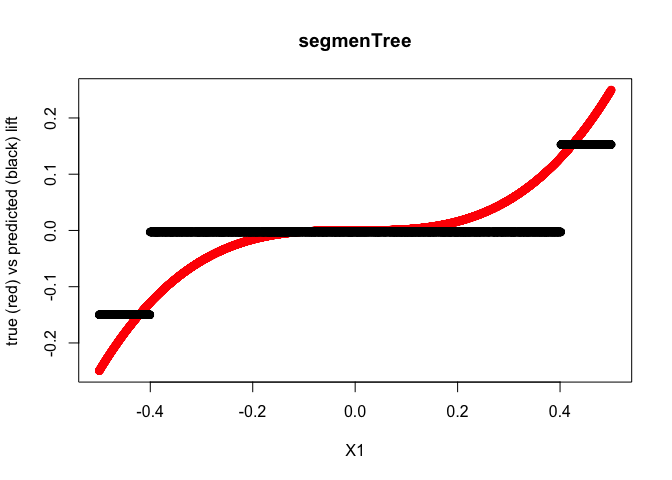
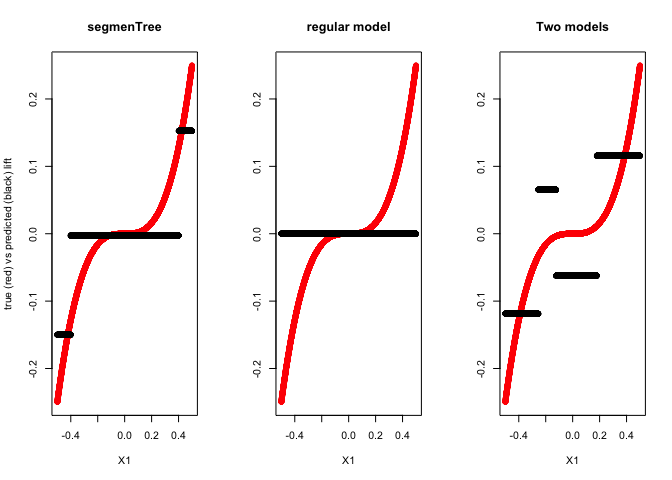
lots of changes

diff --git a/README.md b/README.md
@@ -1,7 +1,7 @@
 segmenTree package
 ================
 Iyar Lin
-09 May, 2020
+16 July, 2020
 
 The `segmenTree` package implements a decision tree based algorithm for
 exploration of heterogeneous treatment effects in Randomized Controlled
@@ -47,9 +47,6 @@ segment_tree <- rpart(y ~ ., data = dat,
                       x = T)
 ```
 
-    ## Warning in rpart(y ~ ., data = dat, method = lift_method, control =
-    ## rpart.control(cp = 0, : NAs introduced by coercion
-
 One way of exploring the resulting tree is by printing the rpart object:
 
 ``` r
@@ -68,10 +65,10 @@ segment_tree
     ##        12) X1< 0.2939269 6939 2.318396e+15 -0.019487100  
     ##          24) X1< -0.2554171 1467 4.631487e+12 -0.078092060 *
     ##          25) X1>=-0.2554171 5472 8.965703e+14 -0.004552848  
-    ##            50) X1< 0.1795555 4328 3.508722e+14 -0.016096610  
-    ##             100) X3=B,C 2930 7.370051e+13  0.007902488 *
-    ##             101) X3=A 1398 3.819695e+12 -0.064505450 *
-    ##            51) X1>=0.1795555 1144 1.712790e+12  0.043287360 *
+    ##            50) X1< 0.1890516 4430 3.851367e+14 -0.014668450  
+    ##             100) X3=B,C 2992 8.013945e+13  0.008535898 *
+    ##             101) X3=A 1438 4.275979e+12 -0.060894750 *
+    ##            51) X1>=0.1890516 1042 1.178883e+12  0.043870860 *
     ##        13) X1>=0.2939269 1044 1.187960e+12  0.096902740 *
     ##       7) X1>=0.4016537 1014 1.057187e+12  0.152712600 *
 
@@ -86,9 +83,9 @@ print(segments)
     ##                            segment    n         lift   lift_lower  lift_upper
     ## 7  X1>=0.4017,X1<0.499855161411688 1014  0.152712621  0.109679301  0.19574594
     ## 6             X1>=0.2939,X1<0.4017 1044  0.096902744  0.052632159  0.14117333
-    ## 5             X1>=0.1796,X1<0.2939 1144  0.043287364 -0.002503221  0.08907795
-    ## 3  X1>=-0.2554,X1<0.1796, X3={B,C} 2930  0.007902488 -0.020848054  0.03665303
-    ## 4    X1>=-0.2554,X1<0.1796, X3={A} 1398 -0.064505454 -0.105797811 -0.02321310
+    ## 5             X1>=0.1891,X1<0.2939 1042  0.043870858 -0.004383936  0.09212565
+    ## 3  X1>=-0.2554,X1<0.1891, X3={B,C} 2992  0.008535898 -0.019895457  0.03696725
+    ## 4    X1>=-0.2554,X1<0.1891, X3={A} 1438 -0.060894751 -0.101565692 -0.02022381
     ## 2           X1>=-0.4005,X1<-0.2554 1467 -0.078092056 -0.118100169 -0.03808394
     ## 1 X1>=-0.49972922494635,X1<-0.4005 1003 -0.150025305 -0.196506492 -0.10354412
 
@@ -113,17 +110,17 @@ points(dat$X1, tau)
 We can see that the algorithm predicts well most of the curve, but did
 some over-fitting in the middle section.
 
-The `segmenTree::tunecp` function uses cross validation to find the
+The `segmenTree::prune_tree` function uses cross validation to find the
 optimal `cp` hyper parameter value.
 
 Below we can see the effective lift and error as a function of the `cp`
 parameter:
 
 ``` r
-optimal_cp_cv <- tune_cp(segment_tree)
+optimal_cp_cv <- prune_tree(segment_tree)
 ```
 
-![](README_files/figure-gfm/prune%20tree%20using%20tunecp-1.png)<!-- -->
+![](README_files/figure-gfm/prune%20tree%20using%20prune_tree-1.png)<!-- -->
 
 ``` r
 optimal_cp_cv <- optimal_cp_cv$optimal_cp
@@ -132,17 +129,47 @@ pruned_segment_tree <- prune(segment_tree, cp = optimal_cp_cv)
 
 The optimal `cp` maximizes the ratio between effective lift and error.
 
-Let’s explore the resulting pruned tree segments:
+Let’s check the new pruned tree predictions:
 
 ``` r
-segments <- extract_segments(pruned_segment_tree, alpha = 0.15)
-print(segments)
+tau <- predict(pruned_segment_tree, dat)
+
+y_lim <- c(min(tau, cate), max(tau, cate))
+plot(c(min(dat$X1), max(dat$X1)), y_lim, type = "n", main = "segmenTree",
+     xlab = "X1", ylab = "true (red) vs predicted (black) lift")
+points(dat$X1, cate, col = "red")
+points(dat$X1, tau)
 ```
 
-    ##                            segment    n         lift  lift_lower  lift_upper
-    ## 3  X1>=0.4017,X1<0.499855161411688 1014  0.152712621  0.10967930  0.19574594
-    ## 2            X1>=-0.4005,X1<0.4017 7983 -0.002719803 -0.02014333  0.01470372
-    ## 1 X1>=-0.49972922494635,X1<-0.4005 1003 -0.150025305 -0.19650649 -0.10354412
+![](README_files/figure-gfm/predict%20treatment%20effect%20pruned%20tree-1.png)<!-- -->
+
+Looks like the tree got pruned a little too much.
+
+One other way we can reduce over-fitting is by adjusting how the leaf
+size is weighted.
+
+``` r
+lift_method <- import_lift_method(f_n = function(x) x)
+
+weighted_segment_tree <- rpart(y ~ ., data = dat,
+                      method = lift_method, 
+                      control = rpart.control(cp = 0, minbucket = 1000),
+                      x = T)
+```
+
+Let’s see the resulting predictions:
+
+``` r
+tau <- predict(weighted_segment_tree, dat)
+
+y_lim <- c(min(tau, cate), max(tau, cate))
+plot(c(min(dat$X1), max(dat$X1)), y_lim, type = "n", main = "segmenTree",
+     xlab = "X1", ylab = "true (red) vs predicted (black) lift")
+points(dat$X1, cate, col = "red")
+points(dat$X1, tau)
+```
+
+![](README_files/figure-gfm/predict%20treatment%20effect%20weighted%20tree-1.png)<!-- -->
 
 To demonstrate why we even need a specialized algorithm we’ll compare
 the segmenTree model with 2 other approaches that use plain ML models:
@@ -151,11 +178,12 @@ the segmenTree model with 2 other approaches that use plain ML models:
     tau(x)=f(x,T=1)-f(x,T=0)  
 2.  Train a model on the treatment units f\_{T=1} and a separate model
     f\_{T=0} on the control units and predict: tau(x) = f\_{T=1}(x) -
-    f\_{T=0}(x)
+    f\_{T=0}(x). This is also called “Two model approach”.
 
 We’ll use a decision tree in both of the above.
 
 ``` r
+par(mfrow = c(1, 3))
 # segmenTree pruned model
 tau <- predict(pruned_segment_tree, dat)
 p_treat <- p_x(rep(1, n), X1, X2, X3)
@@ -167,11 +195,7 @@ plot(c(min(dat$X1), max(dat$X1)), y_lim, type = "n", main = "segmenTree",
      xlab = "X1", ylab = "true (red) vs predicted (black) lift")
 points(dat$X1, cate, col = "red")
 points(dat$X1, tau)
-```
 
-![](README_files/figure-gfm/compare%20segmenTree%20with%202%20other%20approches-1.png)<!-- -->
-
-``` r
 # Model jointly the treatment and covariates
 dat2 <- data.frame(y, X1, X2, X3, Tr)
 fit2 <- rpart(y ~ ., data = dat2)
@@ -185,11 +209,7 @@ plot(c(min(dat$X1), max(dat$X1)), y_lim, type = "n", main = "regular model",
      xlab = "X1", ylab = "")
 points(dat$X1, cate, col = "red")
 points(dat$X1, tau2)
-```
 
-![](README_files/figure-gfm/compare%20segmenTree%20with%202%20other%20approches-2.png)<!-- -->
-
-``` r
 # Train a model on the treatment units and a seperate model on the control units
 
 dat3_treat <- dat2[dat2$Tr == 1, -5]
@@ -201,10 +221,10 @@ dat2_treat <- dat2; dat2_cont <- dat2
 tau3 <- predict(fit3_treat, dat2) - predict(fit3_cont, dat2)
 
 y_lim <- c(min(tau3, cate), max(tau3, cate))
-plot(c(min(dat$X1), max(dat$X1)), y_lim, type = "n", main = "separate models",
+plot(c(min(dat$X1), max(dat$X1)), y_lim, type = "n", main = "Two models",
      xlab = "X1", ylab = "")
 points(dat$X1, cate, col = "red")
 points(dat$X1, tau3)
 ```
 
-![](README_files/figure-gfm/compare%20segmenTree%20with%202%20other%20approches-3.png)<!-- -->
+![](README_files/figure-gfm/compare%20segmenTree%20with%202%20other%20approches-1.png)<!-- -->
